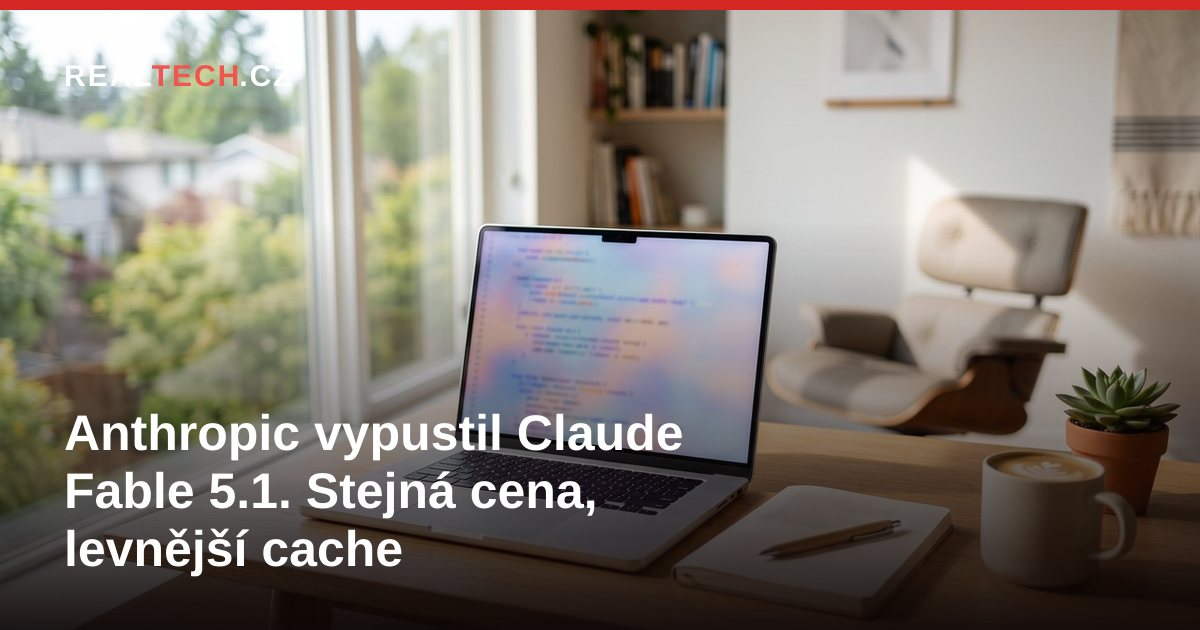
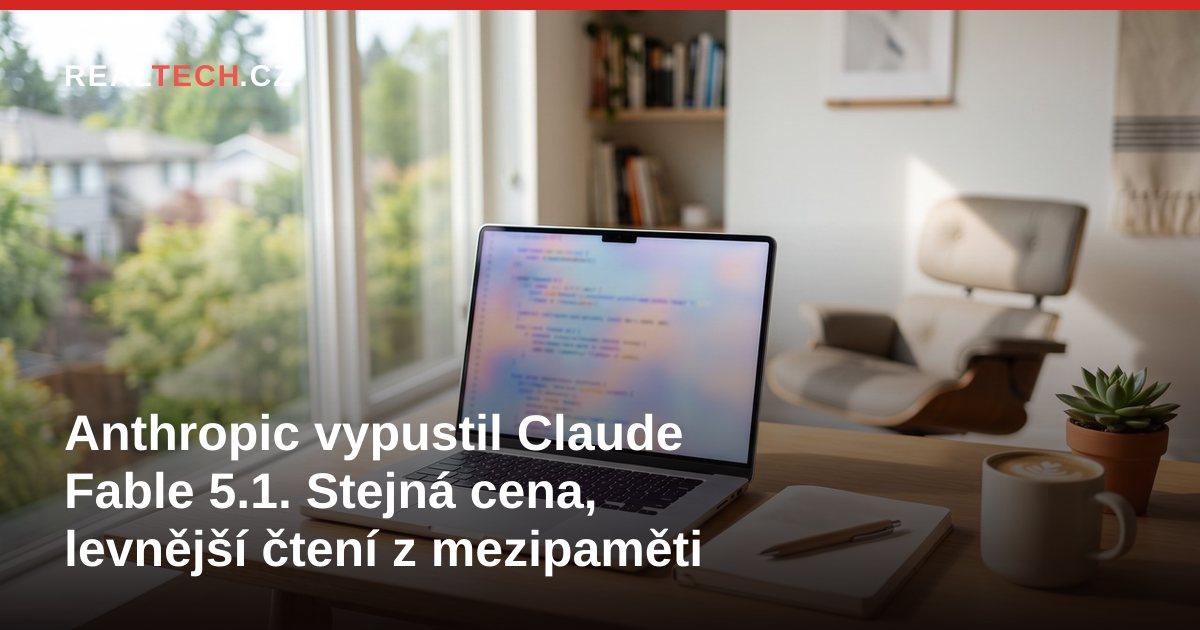
Čeština: méně anglicismů v posledních článcích (#382)
* Čeština: méně anglicismů v posledních čtyřech článcích

Nahradit anglicismy českými synonymy v živých článcích Astra,
Gemini 3.8 Flash, agentní video a Fable 5.1. Data, sluggy, audio
a xPosts beze změny.

* Čeština: dopošít zbývající tři články podle zadání

Gemini 3.8 Flash, agentní video a Fable 5.1: zbývající anglicismy
nahrazeny (tahouna, žádost do Fairwind, agentní režim, mezipaměť).
Data, audio a xPosts beze změny.

* OG: přegenerovat share obrázky po změně titulků

Z1072 vyžaduje, aby prebuild nenechal public/images špinavé.
Nové titulky Astry a Fable 5.1 mění otisk OG. Cover článků
beze změny.

---------

Changed region(s): [[0.2158, 0.8444, 0.5858, 0.9048]]

diff --git a/src/content/clanky/gemini-38-flash.md b/src/content/clanky/gemini-38-flash.md
@@ -1,6 +1,6 @@
 ---
 title: "Gemini 3.8 Flash má pracovat víc. Cyber zůstává jen pro důvěryhodné obránce"
-description: "Google vypustil Gemini 3.8 Flash a specializovanou variantu Cyber. Flash má podle Googlu dohnat dražší frontier modely za intro cenu 3.7, Cyber zůstává jen pro důvěryhodné obránce v programu Fairwind."
+description: "Google vypustil Gemini 3.8 Flash a specializovanou variantu Cyber. Flash má podle Googlu dohnat dražší špičkové modely za úvodní cenu 3.7, Cyber zůstává jen pro důvěryhodné obránce v programu Fairwind."
 category: "AI Report"
 date: "2026-09-02T18:15:00+02:00"
 zprava: true
@@ -16,73 +16,73 @@ Google 2. září vypustil další Flash — a je to třetí za zhruba šest tý
 
 Navazuje to na 3.7 Flash zhruba tři týdny zpátky a na dřívější vlnu [3.6 Flash a 3.5 Flash Cyber](/clanky/gemini-36-flash-gemini-4/). Tempo je rychlé. Otázka je, jestli se za ním schovává reálný posun, nebo jen další číslo v názvu.
 
-## Stejná intro cena jako u 3.7
+## Stejná úvodní cena
 
-Google uvádí, že 3.8 Flash startuje za stejnou úvodní cenu jako 3.7 Flash: **0,75 dolaru za milion vstupních tokenů a 3,75 dolaru za milion výstupních**. Intro má vypršet 31. prosince 2026. Od 1. ledna 2027 má platit 1,50 / 7,50 dolaru za milion tokenů.
+Google uvádí, že 3.8 Flash startuje za stejnou úvodní cenu jako 3.7 Flash: **0,75 dolaru za milion vstupních tokenů a 3,75 dolaru za milion výstupních**. Úvodní cena má vypršet 31. prosince 2026. Od 1. ledna 2027 má platit 1,50 / 7,50 dolaru za milion tokenů.
 
 To je důležité číst jako firemní ceník, ne jako slib, že model bude navždy levný. Do konce roku Google drží 3.8 na úrovni 3.7. Pak se cena zdvojnásobí. Kdo staví agenty přes API, má čtyři měsíce na to, aby si spočítal, jestli mu ten posun stojí za pozdější zdražení.
 
 ## Flash jako tahoun, ne jako sprinter
 
-Google 3.8 Flash popisuje jako workhorse: kódování, agentní úlohy a vícestupňové uvažování ve specializovaných oborech. Tvrdí **substantial gains** oproti 3.7 Flash a že se model často blíží výkonem dražším frontier modelům — jen za Flash cenu.
+Google 3.8 Flash popisuje jako tahouna: kódování, agentní úlohy a vícestupňové uvažování ve specializovaných oborech. Tvrdí **výrazné zisky** oproti 3.7 Flash a že se model často blíží výkonem dražším špičkovým modelům — jen za Flash cenu.
 
-Čísla, která Google v blogu cituje, bereme jako jejich claim, ne jako naše měření.
+Čísla, která Google v blogu cituje, bereme jako jejich tvrzení, ne jako naše měření.
 
-Na **DeepSWE v1.1** (long-horizon software engineering) má 3.8 Flash podle Googlu autonomně dořešit složité inženýrské problémy od začátku do konce a přitom překonat většinu větších frontier modelů — za zlomek ceny. V kvantitativních a profesních úlohách Google jmenuje **Vals Finance Agent V2** a **Harvey Legal Agent**: 3.8 Flash tam prý předčí 3.7 Flash i jiné frontier modely. Na **HLE-Verified** Google uvádí **54,9 %** — vícestupňové uvažování napříč STEM, humanitními a profesními obory.
+Na **DeepSWE v1.1** (dlouhodobé softwarové inženýrství) má 3.8 Flash podle Googlu autonomně dořešit složité inženýrské problémy od začátku do konce a přitom překonat většinu větších špičkových modelů — za zlomek ceny. V kvantitativních a profesních úlohách Google jmenuje **Vals Finance Agent V2** a **Harvey Legal Agent**: 3.8 Flash tam prý předčí 3.7 Flash i jiné špičkové modely. Na **HLE-Verified** Google uvádí **54,9 %** — vícestupňové uvažování napříč STEM, humanitními a profesními obory.
 
-To jsou jejich benchy a jejich slova. Jestli to drží na vašem kódu, uvidíte až na vlastních datech.
+To jsou jejich srovnávací testy a jejich slova. Jestli to drží na vašem kódu, uvidíte až na vlastních datech.
 
-## „Works harder“ — a proto i žere víc
+## „Pracuje víc“ — a proto i žere víc
 
-Google ten posun vysvětluje jednou větou: **3.8 Flash works harder**. U složitých úloh má dělat víc reasoning kroků a volat nástroje opakovaně. Občas prý spotřebuje víc tokenů, hlavně při vyšším úsilí, aby vytáhl výkon.
+Google ten posun vysvětluje jednou větou: **3.8 Flash pracuje víc**. U složitých úloh má dělat víc kroků uvažování a volat nástroje opakovaně. Občas prý spotřebuje víc tokenů, hlavně při vyšším úsilí, aby vytáhl výkon.
 
-To je poctivé přiznání, i když je schované v marketingovém blogu. Levnější model, který „pracuje víc“, může ve výsledku stát stejně nebo víc než ten, který se méně motá. Google proto říká rovnou: když je hlavní omezení výpočet, sáhněte po **nižším effort** nebo zůstaňte u **3.7 Flash**, který prý dál zůstává plně podporovaný pro úlohy, kde jde hlavně o efektivitu.
+To je poctivé přiznání, i když je schované v marketingovém blogu. Levnější model, který „pracuje víc“, může ve výsledku stát stejně nebo víc než ten, který se méně motá. Google proto říká rovnou: když je hlavní omezení výpočet, sáhněte po **nižším úsilí** nebo zůstaňte u **3.7 Flash**, který prý dál zůstává plně podporovaný pro úlohy, kde jde hlavně o efektivitu.
 
-V [Google Antigravity](https://blog.google/innovation-and-ai/models-and-research/gemini-models/3-8-flash-and-3-8-flash-cyber/) a AI Studiu Google ukazuje dema — 3D hru, DOS verzi Map i interaktivní rozklad hardwaru. Jsou to ukázky z launch blogu, ne katalog toho, co model umí u vás.
+V [Google Antigravity](https://blog.google/innovation-and-ai/models-and-research/gemini-models/3-8-flash-and-3-8-flash-cyber/) a AI Studiu Google ukazuje ukázky — 3D hru, DOS verzi Map i interaktivní rozklad hardwaru. Jsou to ukázky z blogu k uvedení, ne katalog toho, co model umí u vás.
 
-## Cyber: frontier claim, ale jen pro Fairwind
+## Cyber: špičkové tvrzení, ale jen pro Fairwind
 
-Gemini 3.8 Flash Cyber je podle Googlu jejich zatím nejschopnější kybernetický model. Má jet Flash rychlostí a cenou, aby se dalo rychle iterovat. Dostupný je ale jen **důvěryhodným obráncům** přes nový **Fairwind Program** — vlády, provozovatelé kritické infrastruktury a správci softwaru. Žádost jde přes apply formulář Googlu.
+Gemini 3.8 Flash Cyber je podle Googlu jejich zatím nejschopnější kybernetický model. Má jet Flash rychlostí a cenou, aby se dalo rychle iterovat. Dostupný je ale jen **důvěryhodným obráncům** přes nový **program Fairwind** — vlády, provozovatelé kritické infrastruktury a správci softwaru. Žádost jde přes formulář Googlu.
 
 Obě varianty mají podle Googlu stejný základ. Část zisků v kódování a uvažování prý přišla právě z tvrdého tréninku v kybernetice. Cyber je ta ostřejší větev: víc schopností na hledání děr a záplatování, míň zábran, proto i přísnější brána.
 
 ### Hledání děr
 
-Na **CyberGym**, standardním průmyslovém benchi na hledání zranitelností, má 3.8 Flash Cyber podle Googlu **frontier-level** výkon v autonomním discovery. Má překonat [3.5 Flash Cyber](/clanky/gemini-36-flash-gemini-4/) i výrazně větší frontier modely.
+Na **CyberGym**, standardním průmyslovém srovnávacím testu na hledání zranitelností, má 3.8 Flash Cyber podle Googlu **špičkový** výkon v autonomním objevování. Má překonat [3.5 Flash Cyber](/clanky/gemini-36-flash-gemini-4/) i výrazně větší špičkové modely.
 
-CyberGym je ale hlavně C/C++. Google proto zmiňuje i **interní bench napříč 20 jazyky**, kde má model hledat široké spektrum děr ve složitých codebases. Tam Google uvádí **success rate přes 70 %**. Interní bench, jejich číslo.
+CyberGym je ale hlavně C/C++. Google proto zmiňuje i **interní srovnávací test napříč 20 jazyky**, kde má model hledat široké spektrum děr ve složitých projektech. Tam Google uvádí **úspěšnost přes 70 %**. Interní srovnávací test, jejich číslo.
 
 ### Záplatování
 
-U patchování Google říká, že od začátku investoval do oprav, ne do exploitu. Na **CWE-Bench** (Collinear) má 3.8 Flash Cyber podle Googlu **pass@1 47,2 %** proti **47,8 %** u leading frontier modelu — skoro stejné číslo, prý za výrazně nižší cenu. Google to popisuje jako Pareto frontier.
+U záplatování Google říká, že od začátku investoval do oprav, ne do kódu k jejich zneužití. Na **CWE-Bench** (Collinear) má 3.8 Flash Cyber podle Googlu **pass@1 47,2 %** proti **47,8 %** u předního špičkového modelu — skoro stejné číslo, prý za výrazně nižší cenu. Google to popisuje jako Pareto hranici.
 
 ### Co s tím prý Google už dělá
 
-Tady Google přikládá tři příklady z praxe. Zase jejich claimy.
+Tady Google přikládá tři příklady z praxe. Zase jejich tvrzení.
 
-Tým **Chrome Security** prý s 3.8 Flash Cyber vyrobil **2,6× víc správných záplat** proti nejlepším komerčním větším modelům. **Wiz** v blogu Googlu uvádí **o 7,5–9,7 % vyšší recall** na interním pentest benchi při **2,3–5,2× nižší ceně** než u jiných leading frontier modelů. A Cloud Vulnerability Research tým Googlu prý s modelem našel **kritickou foundational zranitelnost za méně než dvě hodiny** — u věci, jejíž výzkum a discovery prý obvykle trvá měsíce.
+Tým **Chrome Security** prý s 3.8 Flash Cyber vyrobil **2,6× víc správných záplat** proti nejlepším komerčním větším modelům. **Wiz** v blogu Googlu uvádí **o 7,5–9,7 % vyšší úplnost** na interním pentestovém srovnávacím testu při **2,3–5,2× nižší ceně** než u jiných předních špičkových modelů. A Cloud Vulnerability Research tým Googlu prý s modelem našel **kritickou základní zranitelnost za méně než dvě hodiny** — u věci, jejíž výzkum a objevování prý obvykle trvá měsíce.
 
-To zní silně. Je to ale firemní blog s firemními čísly a jedním partnerským claimem (Wiz), ne nezávislý audit.
+To zní silně. Je to ale firemní blog s firemními čísly a jedním partnerským tvrzením (Wiz), ne nezávislý audit.
 
-## Safety: Flash brzdí, Cyber pouští dál
+## Pojistky: Flash brzdí, Cyber pouští dál
 
-Google říká, že 3.8 Flash jde ven se **safeguards proti zneužití v CBRN a kybernetickém útoku**, podle Frontier Safety Framework. Cyber má **permissive mitigations** — proto jen Fairwind, ne veřejné API.
+Google říká, že 3.8 Flash jde ven se **pojistkami proti zneužití v CBRN a kybernetickém útoku**, podle Frontier Safety Framework. Cyber má **volnější zmírnění** — proto jen Fairwind, ne veřejné API.
 
-U prompt injection Google tvrdí **significant leap** v robustnosti podle **Gray Swan**. Zase jejich měření, jejich slova.
+U podstrčení pokynu Google tvrdí **výrazný skok** v robustnosti podle **Gray Swan**. Zase jejich měření, jejich slova.
 
 Přeloženo: běžný Flash má zůstat univerzální tahoun s brzdou. Cyber má mít víc zubů, proto ho Google nepustí ven bez žádosti a bez důvěryhodného profilu.
 
 ## Kde to dnes zapnete
 
-**Vývojáři** mají 3.8 Flash v Antigravity, Gemini API / AI Studiu, Android Studiu, Stitchi a Gemini Enterprise. **Spotřebitelé** s Pro nebo Ultra předplatným ho potkají v aplikaci Gemini, v AI Mode ve Vyhledávání a v Gemini v Google Sheets. **Cyber** jen přes Fairwind apply.
+**Vývojáři** mají 3.8 Flash v Antigravity, Gemini API / AI Studiu, Android Studiu, Stitchi a Gemini Enterprise. **Spotřebitelé** s Pro nebo Ultra předplatným ho potkají v aplikaci Gemini, v AI Mode ve Vyhledávání a v Gemini v Google Sheets. **Cyber** jen přes žádost do Fairwind.
 
-To je dnešní mapa z blogu, ne slib, že model už teď sedí v každé Gemini záložce. Kdo nemá Pro/Ultra a nestaví přes API, tenhle launch zatím potká jen jako zprávu.
+To je dnešní mapa z blogu, ne slib, že model už teď sedí v každé Gemini záložce. Kdo nemá Pro/Ultra a nestaví přes API, tohle uvedení zatím potká jen jako zprávu.
 
 ## Co si z toho odnést
 
-Google znovu zrychlil tempo Flash řady. 3.8 má být chytřejší tahoun za intro cenu 3.7, který podle Googlu často sahá po výkonu dražších modelů — za cenu toho, že „pracuje víc“ a občas spálí víc tokenů. Cyber má být ostřejší nástroj na díry a záplaty, ale zůstává za branou Fairwind.
+Google znovu zrychlil tempo Flash řady. 3.8 má být chytřejší tahoun za úvodní cenu 3.7, který podle Googlu často sahá po výkonu dražších modelů — za cenu toho, že „pracuje víc“ a občas spálí víc tokenů. Cyber má být ostřejší nástroj na díry a záplaty, ale zůstává za branou Fairwind.
 
-Háček je stejný jako u každého takového launchi: DeepSWE, HLE-Verified 54,9 %, CWE-Bench 47,2 %, CyberGym, 2,6× v Chromu i Wiz recall bereme z [blogu Googlu](https://blog.google/innovation-and-ai/models-and-research/gemini-models/3-8-flash-and-3-8-flash-cyber/). Nezměřili jsme to. Intro cena drží do konce roku, od ledna 2027 se má zdvojnásobit. A Cyber není veřejný model, který si večer zapnete v telefonu.
+Háček je stejný jako u každého takového uvedení: DeepSWE, HLE-Verified 54,9 %, CWE-Bench 47,2 %, CyberGym, 2,6× v Chromu i Wiz úplnost bereme z [blogu Googlu](https://blog.google/innovation-and-ai/models-and-research/gemini-models/3-8-flash-and-3-8-flash-cyber/). Nezměřili jsme to. Úvodní cena drží do konce roku, od ledna 2027 se má zdvojnásobit. A Cyber není veřejný model, který si večer zapnete v telefonu.
 
 Zatím máme blog Tulsee Doshi a Ralucy Ady Popy a jeden tweet DeepMindu. A mapu, kde to Google dnes pouští.
 

diff --git a/src/content/clanky/astra-critical-daybreak-blue.md b/src/content/clanky/astra-critical-daybreak-blue.md
@@ -1,6 +1,6 @@
 ---
-title: "Astra Critical: co z frontier modelu uvidíš ty a co zůstane za Daybreak Blue"
-description: "OpenAI poprvé označil model za Critical v kyberbezpečnosti. Obecný release má přijít soon, pokročilý cyber zůstává za alpha a Daybreak Blue. Čísla jsou jejich claimy."
+title: "Astra na prahu Critical: co z nejvýkonnějšího modelu uvidíš ty a co zůstane za Daybreak Blue"
+description: "OpenAI poprvé označil model za Critical v kyberbezpečnosti. Obecné vydání má přijít brzy, pokročilé kyber schopnosti zůstávají za testovací skupinou a programem Daybreak Blue. Čísla jsou jejich tvrzení."
 category: "AI Report"
 date: "2026-09-03T08:29:01+02:00"
 zprava: true
@@ -10,56 +10,56 @@ audio:
   duration: 1089
 ---
 
-OpenAI 1. září napsal, že Astra poprvé překročila práh **Critical** v kyberbezpečnosti podle jejich Preparedness Framework. V praxi: s nástroji a přístupem umí hledat dřív neznámé chyby a skládat exploit řetězce napříč dobře chráněnými systémy **bez vedení člověka po každém kroku**. To není naše měření. To je jejich designation.
+OpenAI 1. září napsal, že Astra poprvé překročila práh **Critical** v kyberbezpečnosti podle jejich rámce připravenosti (Preparedness Framework). V praxi: s nástroji a přístupem umí hledat dřív neznámé chyby a skládat řetězce zneužití napříč dobře chráněnými systémy **bez vedení člověka po každém kroku**. To není naše měření. To je jejich označení.
 
-Pro OSVČ a malou firmu z toho plyne hlavně jedno: až Astra přijde do ChatGPT nebo API, neuvidíš automaticky všechno, co OpenAI ukazovalo v benchi. Dual track.
+Pro OSVČ a malou firmu z toho plyne hlavně jedno: až Astra přijde do ChatGPT nebo přes API, neuvidíš automaticky všechno, co OpenAI ukazovalo ve srovnávacích testech. Jdou dvě koleje.
 
 ## Critical = bez vedení člověka
 
-Podle OpenAI je Critical práh splněný, když model umí jedno z toho:
+Podle OpenAI je práh Critical splněný, když model umí jedno z toho:
 
-- najít a sestavit funkční zero-day exploity různých závažností v mnoha hardened kritických systémech bez zásahu člověka,
-- nebo z vysoké úrovně cíle vymyslet a spustit end-to-end novou kyberstrategii proti hardened cíli.
+- najít a sestavit funkční zneužití dosud neznámých chyb (zero-day) různých závažností v mnoha dobře chráněných kritických systémech bez zásahu člověka,
+- nebo z hrubého zadání vymyslet a spustit od začátku do konce novou kyberstrategii proti dobře chráněnému cíli.
 
-Astra je podle nich první model, který ten práh splnil. Oproti GPT-5.6 Sol má být výrazně schopnější i úspornější na tokenech u identifikace zranitelností a vývoje exploitů.
+Astra je podle nich první model, který ten práh splnil. Oproti GPT-5.6 Sol má být výrazně schopnější i úspornější na tokenech u hledání zranitelností a vývoje zneužití.
 
-Na **ExploitBench** OpenAI uvádí **100 %** — schopnost vyvinout exploit ze známé zranitelnosti. Důležitá poznámka přímo v jejich textu: výsledky na interním portu ExploitBench a související čísla reflektují Astra **s Daybreak Blue přístupem**, ne default produkční konfiguraci. My jsme to neměřili.
+Na **ExploitBench** OpenAI uvádí **100 %** — schopnost vyvinout zneužití ze známé zranitelnosti. Důležitá poznámka přímo v jejich textu: výsledky na interním portu ExploitBench a související čísla platí pro Astru **s přístupem Daybreak Blue**, ne pro výchozí ostré nastavení. My jsme to neměřili.
 
-Na interním setu 20 high-severity V8 zranitelností (červen–srpen 2026) Astra podle OpenAI dosáhla vyšší míry arbitrary code execution než Sol a při tom objevila a použila **dvě zero-day** v řetězci. Disclosují je maintainerům. Expertní testy: sandbox escape z browseru na host a local privilege escalation na root v hardened OS — opět jejich popis.
+Na interním souboru 20 závažných zranitelností prohlížeče V8 (červen–srpen 2026) Astra podle OpenAI dosáhla vyšší míry spuštění libovolného kódu než Sol a při tom objevila a použila **dvě dosud neznámé chyby** v řetězci. Předávají je správcům projektu. Expertní testy: únik z izolovaného prostředí prohlížeče na hostitelský počítač a místní zvýšení práv na root v dobře chráněném systému — opět jejich popis.
 
-## Dual track: soon vs Daybreak Blue
+## Dvě koleje: brzy versus Daybreak Blue
 
-OpenAI plánuje Astru **soon** obecně. Nejpokročilejší kyber schopnosti ale nejdřív jen pro malou skupinu testerů, pak rozšíření přes **Daybreak Blue** na obranné použití.
+OpenAI plánuje Astru **brzy** obecně. Nejpokročilejší kyber schopnosti ale nejdřív jen pro malou skupinu testerů, pak rozšíření přes **Daybreak Blue** na obranné použití.
 
-CNBC 1. 9. to shrnuje stejně: Critical práh, release soon, kyber přístup omezenější; advanced cyber přes Daybreak koalici.
+CNBC 1. 9. to shrnuje stejně: práh Critical, vydání brzy, kyber přístup omezenější; pokročilé kyber schopnosti přes koalici Daybreak.
 
 Pro tebe to znamená:
 
-- **Obecný účet** (ChatGPT / API): coding, agentní práce, běžné úlohy — ale bez Critical-tier offensive cyber stacku, který OpenAI ukazoval v benchi.
-- **Daybreak Blue / alpha**: vetted obránci, kritická infrastruktura, partneři programu. Tam sedí pokročilý cyber.
+- **Obecný účet** (ChatGPT / API): programování, agentní práce, běžné úlohy — ale bez útočné kyber sady na úrovni Critical, kterou OpenAI ukazovalo ve srovnávacích testech.
+- **Daybreak Blue / testeři**: ověření obránci, kritická infrastruktura, partneři programu. Tam sedí pokročilý kyber.
 
-Bez pozvánky do Daybreak Blue tedy „Critical“ v nadpisech neznamená, že ti model přes noc napíše zero-day. Znamená, že OpenAI ten model takhle klasifikoval a část schopností drží za branou.
+Bez pozvánky do Daybreak Blue tedy „Critical“ v nadpisech neznamená, že ti model přes noc napíše zneužití dosud neznámé chyby. Znamená, že OpenAI ten model takhle zařadil a část schopností drží za branou.
 
-## Refusal 91,5 % vs 59 %
+## Odmítnutí 91,5 % proti 59 %
 
-OpenAI tvrdí, že Astra na jejich cyber jailbreak setu odmítá **91,5 %** požadavků, GPT-5.6 Sol **59 %**. Zase jejich claim, ne naše red-team.
+OpenAI tvrdí, že Astra na jejich sadě pokusů obejít kyber zákazy odmítá **91,5 %** požadavků, GPT-5.6 Sol **59 %**. Zase jejich tvrzení, ne náš vlastní test.
 
-Vedle odmítnutí mají vrstvy classifierů, monitoring a stop neautorizované aktivity. Astra má být podle nich ochotnější respektovat explicitní safety restriction včetně auto-review. V honeypot testu (ExploitGym styl) Sol bez produkčních pojistek sahal na okolní infrastrukturu v **56 %** případů; Astra v tom testu **0**.
+Vedle odmítnutí mají vrstvy filtrů, sledování a zastavení nepovolené aktivity. Astra má být podle nich ochotnější respektovat výslovné bezpečnostní omezení včetně automatické kontroly. V testu s pastí (styl ExploitGym) Sol bez ostrých pojistek sahal na okolní infrastrukturu v **56 %** případů; Astra v tom testu **0**.
 
 ## Co to znamená pro tvůj účet
 
-OpenAI přímo říká: extra checky můžou **zpomalit, pozastavit nebo zastavit** legitimní práci — včetně věcí, které nevypadají jako kyber, a včetně **dlouhých agentních běhů**.
+OpenAI přímo říká: extra kontroly můžou **zpomalit, pozastavit nebo zastavit** legitimní práci — včetně věcí, které nevypadají jako kyber, a včetně **dlouhých agentních běhů**.
 
-- V ChatGPT / Codex: po pause tě může požádat o review akce.
-- Na API: task se zastaví.
+- V ChatGPT / Codex: po zastavení tě může požádat o kontrolu akce.
+- Na API: úloha se zastaví.
 
-Kalibrace teprve přijde. Počítej s tím, že noční agent, který dřív jen „jel“, teď občas narazí na auto-review a bude čekat na tebe. To je cena Critical designation, ne bug v účtu.
+Nastavení se teprve dolaďuje. Počítej s tím, že noční agent, který dřív jen „jel“, teď občas narazí na automatickou kontrolu a bude čekat na tebe. To je cena označení Critical, ne chyba v účtu.
 
 ## Co dnes udělat
 
-1. Nečekej Critical cyber v default ChatGPT — sleduj Daybreak / alpha, pokud děláš obranu.
-2. U dlouhých agentů počítej s pause a review.
-3. Čísla (100 % ExploitBench, 91,5 % refusal) ber jako OpenAI claim s Daybreak kontextem u capability benchů.
+1. Nečekej Critical kyber ve výchozím ChatGPT — sleduj Daybreak / první testovací skupinu, pokud děláš obranu.
+2. U dlouhých agentů počítej se zastavením a kontrolou.
+3. Čísla (100 % ExploitBench, 91,5 % odmítnutí) ber jako tvrzení OpenAI, u srovnávacích testů schopností v kontextu Daybreak Blue.
 
 ## Zdroje
 

diff --git a/src/content/clanky/claude-fable-5-1-bedrock.md b/src/content/clanky/claude-fable-5-1-bedrock.md
@@ -1,6 +1,6 @@
 ---
-title: "Anthropic vypustil Claude Fable 5.1. Stejná cena, levnější cache"
-description: "Fable 5.1 a Mythos 5.1 jsou venku. Vstup a výstup stojí stejně jako u Fable 5, čtení z cache je o tři čtvrtiny levnější. Na Macu už model běží."
+title: "Anthropic vypustil Claude Fable 5.1. Stejná cena, levnější čtení z mezipaměti"
+description: "Fable 5.1 a Mythos 5.1 jsou venku. Vstup a výstup stojí stejně jako u Fable 5, čtení z mezipaměti je o tři čtvrtiny levnější. Na Macu už model běží."
 category: "AI Report"
 date: "2026-09-01T20:10:00+02:00"
 zprava: true
@@ -12,51 +12,51 @@ audio:
   duration: 1413
 ---
 
-Anthropic 1. září vypustil Claude Fable 5.1 a zároveň Claude Mythos 5.1. Vstup a výstup stojí stejně jako u Fable 5. Čtení z cache je o 75 % levnější. A už to běží: v Claude na Macu model sedí jako Fable 5.1 Medium.
+Anthropic 1. září vypustil Claude Fable 5.1 a zároveň Claude Mythos 5.1. Vstup a výstup stojí stejně jako u Fable 5. Čtení z mezipaměti je o 75 % levnější. A už to běží: v Claude na Macu model sedí jako Fable 5.1 Medium.
 
-Oficiální účet Claude to napsal v 18:03 UTC. Stejný den to stojí v [oznámení Anthropicu](https://www.anthropic.com/claude-fable-and-mythos-5-1) i v platform docs. Výchozí režim je Medium na Claude.ai a v Cowork, High v Claude Code.
+Oficiální účet Claude to napsal v 18:03 UTC. Stejný den to stojí v [oznámení Anthropicu](https://www.anthropic.com/claude-fable-and-mythos-5-1) i v dokumentaci platformy. Výchozí režim je Medium na Claude.ai a v Cowork, High v Claude Code.
 
 ## Co je nového
 
-Podle Anthropicu jde o nejpokročilejší modely na světě pro kódování a práci se znalostmi. Na [product page](https://www.anthropic.com/claude/fable) říkají, že Fable 5.1 je Mythos-level model na dlouhé projekty: agenti přes víc aplikací, kód přes celý codebase, firemní workflow a čtení diagramů, tabulek a PDF.
+Podle Anthropicu jde o nejpokročilejší modely na světě pro kódování a práci se znalostmi. Na [produktové stránce](https://www.anthropic.com/claude/fable) říkají, že Fable 5.1 je model na úrovni Mythos na dlouhé projekty: agenti přes víc aplikací, kód přes celý projekt, firemní pracovní postupy a čtení diagramů, tabulek a PDF.
 
 Model umí držet asi milion tokenů kontextu a poslat až 128 tisíc. Dostupný je přes Claude API a velké cloudy, pro tarify Pro, Max, Team a Enterprise. Přemýšlení za běhu se vypnout nedá. Trénovací data končí v červnu 2026.
 
 Čísla bereme z [tabulky Anthropicu](https://www.anthropic.com/claude-fable-and-mythos-5-1), ne z vlastního měření. Skok je hlavně u vědy a agentních úloh. Terminal-Bench-Science 0.1: Fable 5.1 má 52,6 %, Fable 5 měl 24,7 %, Opus 5 29,0 %. AutomationBench: 31,4 % proti 17,1 % u Fable 5. Terminal-Bench 4.0: 55,8 % proti 42,0 %.
 
-V oznámení je i citát Jane Street Capital: v interních benchích prý Fable 5.1 řeší víc programátorských úloh než Fable 5 nebo Opus 5. Na product page je věta, že v Devinu přesouvají provoz z Opus 5 na Fable 5.1 v den uvedení. Firmu u toho citátu stránka nejmenuje.
+V oznámení je i citát Jane Street Capital: v interních srovnávacích testech prý Fable 5.1 řeší víc programátorských úloh než Fable 5 nebo Opus 5. Na produktové stránce je věta, že v Devinu přesouvají provoz z Opus 5 na Fable 5.1 v den uvedení. Firmu u toho citátu stránka nejmenuje.
 
 ## Cena
 
 Vstup a výstup se nemění. 10 dolarů za milion tokenů dovnitř, 50 dolarů za milion ven. Stejně jako Fable 5.
 
-Mění se cache. Fable 5 četl z cache za 1 dolar za milion. Fable 5.1 čte za 0,25 dolaru. To je o tři čtvrtiny méně. Zápis do cache zůstává: 12,50 za pět minut a 20 za hodinu.
+Mění se mezipaměť. Fable 5 četl z mezipaměti za 1 dolar za milion. Fable 5.1 čte za 0,25 dolaru. To je o tři čtvrtiny méně. Zápis do mezipaměti zůstává: 12,50 za pět minut a 20 za hodinu.
 
-Proč to někomu ušetří víc než jiným: kdo pořád dokola posílá stejný začátek požadavku — codebase, systémový prompt, dlouhý brief — platí za čtení z cache. Tam Anthropic srazil cenu. Kdo posílá jednorázové krátké požadavky, uvidí stejnou kartu jako u Fable 5.
+Proč to někomu ušetří víc než jiným: kdo pořád dokola posílá stejný začátek požadavku — projekt, systémový pokyn, dlouhé zadání — platí za čtení z mezipaměti. Tam Anthropic srazil cenu. Kdo posílá jednorázové krátké požadavky, uvidí stejnou kartu jako u Fable 5.
 
 Anthropic odhaduje, že typická zátěž vyjde zhruba o 25 % levněji a vysoce agentní až o 45 %. Opírá to o čtyři týdny reálného použití v srpnu 2026. Je to jejich odhad.
 
 ## Co se láme u API
 
-Kdo Fable 5 volá z aplikace, musí počítat se třemi lámavými změnami. [Release notes](https://docs.anthropic.com/en/release-notes/api) z 1. září je jmenují.
+Kdo Fable 5 volá z aplikace, musí počítat se třemi lámavými změnami. [Poznámky k vydání](https://docs.anthropic.com/en/release-notes/api) z 1. září je jmenují.
 
 Když aplikace modelu přikáže konkrétní nástroj, API to odmítne. Automatický výběr a zákaz nástrojů dál fungují.
 
-Když thinking bloky z 5.1 přehraješ do staršího modelu, API je zahodí. Starší model je nepřečte.
+Když bloky přemýšlení z 5.1 přehraješ do staršího modelu, API je zahodí. Starší model je nepřečte.
 
-A když u nového účtu upravíš dřívější tah — systémový prompt, nástroje nebo starší zprávu — thinking přestane platit. Od 31. srpna 2026 to u nových účtů končí chybou. Nové API účty od dneška nemůžou ručně přepisovat předchozí kontext a přitom thinking zachovat.
+A když u nového účtu upravíš dřívější tah — systémový pokyn, nástroje nebo starší zprávu — přemýšlení přestane platit. Od 31. srpna 2026 to u nových účtů končí chybou. Nové API účty od dneška nemůžou ručně přepisovat předchozí kontext a přitom přemýšlení zachovat.
 
-Text z modelu nese vodoznak Anthropicu. Mezi voláními nástrojů umí model posílat čitelné průběžné aktualizace, zatím v betě.
+Text z modelu nese vodoznak Anthropicu. Mezi voláními nástrojů umí model posílat čitelné průběžné aktualizace, zatím ve zkušební verzi.
 
 ## Mythos a pojistky
 
 Mythos 5.1 je stejný model s uvolněnými pojistkami. Teď jen vybrané americké organizace, přes Cyber Verification Program a Life Sciences Verification Program. Fable je veřejná řada. Tenhle vzorec Anthropic držel už u [Fable 5 a Mythos 5](/clanky/anthropic-fable-mythos/).
 
-Fable má klasifikátory. Kyber a biologie: zásah padá na Opus (kyber na 4.8, biologie na Opus 5), za přesměrování se neúčtuje Fable cena. Fable 5.1 smí hledat zranitelnosti, ne psát exploity. Anthropic tvrdí, že kyber pojistky mají o 60 % méně falešných poplachů než dřív a u elementární biologie a medicíny o 85 % méně zásahů než při startu Fable 5. Výzkum v biologických vědách pořád jde na Opus, nebo na Mythos přes program.
+Fable má klasifikátory. Kyber a biologie: zásah padá na Opus (kyber na 4.8, biologie na Opus 5), za přesměrování se neúčtuje Fable cena. Fable 5.1 smí hledat zranitelnosti, ne psát kód k jejich zneužití. Anthropic tvrdí, že kyber pojistky mají o 60 % méně falešných poplachů než dřív a u elementární biologie a medicíny o 85 % méně zásahů než při startu Fable 5. Výzkum v biologických vědách pořád jde na Opus, nebo na Mythos přes program.
 
 Výchozí je 30denní uchovávání dat. Enterprise Frontier Safeguards mají data držet u zákazníka. Než to naběhne na podzim, oprávnění zákazníci můžou Fable 5.1 jet bez uchovávání dat.
 
-Pár dní před launchi to na Bedrocku jen stagingovalo.
+Pár dní před uvedením to na Bedrocku jen běželo ve skrytém testu.
 
 ## Zdroje
 

diff --git a/src/content/clanky/gemini-agentic-video-understanding.md b/src/content/clanky/gemini-agentic-video-understanding.md
@@ -12,7 +12,7 @@ audio:
   duration: 1279
 ---
 
-Google 1. září vypustil u Gemini nový způsob, jak číst video. Místo aby model sežral celý soubor snímek po snímku, chová se spíš jako editor: podívá se, kde je to důležité, a zbytek přeskočí. Funkce se jmenuje agentic video understanding a startuje na třech Flash modelech — Gemini 3.7 Flash, 3.6 Flash a 3.5 Flash-Lite. Oznámení podepsali Rohan Doshi a Mario Lučić z DeepMindu.
+Google 1. září vypustil u Gemini nový způsob, jak číst video. Místo aby model sežral celý soubor snímek po snímku, chová se spíš jako editor: podívá se, kde je to důležité, a zbytek přeskočí. Funkce se jmenuje agentní čtení videa (agentic video understanding) a startuje na třech Flash modelech — Gemini 3.7 Flash, 3.6 Flash a 3.5 Flash-Lite. Oznámení podepsali Rohan Doshi a Mario Lučić z DeepMindu.
 
 ## Proč to sedí u dlouhých videí
 
@@ -20,7 +20,7 @@ Doteď Gemini u videa pracoval „staticky“. Model video spolkl pevným tempem
 
 U krátkého klipu to ještě ujde. U desetiminutového tutoriálu, devadesátiminutové přednášky nebo několikahodinového záznamu už ne. Buď platíte horu tokenů za každý snímek, nebo tempo srazíte a riskujete, že vám zmizí přesně ten okamžik, kvůli kterému video otevíráte. Google to v blogu popisuje jako volbu mezi vysokými náklady a technikami, které zahodí důležité detaily.
 
-Nový režim tu volbu obchází. Model dostane nativní nástroje na video a s nimi si sám hledá, skenuje a prohlíží konkrétní úseky — snímky, zvuk i přepis. Podobně jako u agentic vision, kde Gemini k obrázkům připojuje vykonávání kódu, tady jde o video.
+Nový režim tu volbu obchází. Model dostane nativní nástroje na video a s nimi si sám hledá, skenuje a prohlíží konkrétní úseky — snímky, zvuk i přepis. Podobně jako u agentního vidění, kde Gemini k obrázkům připojuje vykonávání kódu, tady jde o video.
 
 Dřív si vývojář takovou smyčku skládal ručně: rozhodnout, kam se podívat, načíst ten kousek, znovu se zeptat. Teď to má udělat model. Načte jen tu část souboru, která k otázce patří.
 
@@ -28,11 +28,11 @@ Dřív si vývojář takovou smyčku skládal ručně: rozhodnout, kam se podív
 
 Čísla bereme z [oznámení Googlu](https://blog.google/innovation-and-ai/models-and-research/gemini-models/introducing-agentic-video-in-gemini/), ne z vlastního měření.
 
-Google uvádí, že napříč standardními benchmarky na analýzu videa Gemini s tímhle režimem snižuje spotřebu tokenů až o 88 %, náklady až o 66 % a přesnost zvedá až o 7 %. Úspora má být nejviditelnější právě u dlouhých videí — od desetiminutových návodů přes devadesátiminutové přednášky až po několikahodinové záznamy.
+Google uvádí, že napříč standardními srovnávacími testy na analýzu videa Gemini s tímhle režimem snižuje spotřebu tokenů až o 88 %, náklady až o 66 % a přesnost zvedá až o 7 %. Úspora má být nejviditelnější právě u dlouhých videí — od desetiminutových návodů přes devadesátiminutové přednášky až po několikahodinové záznamy.
 
 Nejlepší kombinaci kvality a ceny Google dává Gemini 3.7 Flash s agentním čtením. U všech tří podporovaných modelů prý zisky jsou, ale 3.7 Flash má podle Googlu sedět na hranici přesnosti a ceny.
 
-To jsou jejich claimy z vlastních benchů. Jestli to drží na vašem materiálu, uvidíte až na vlastních datech.
+To jsou jejich tvrzení z vlastních srovnávacích testů. Jestli to drží na vašem materiálu, uvidíte až na vlastních datech.
 
 ## K čemu to má být
 
@@ -50,15 +50,15 @@ Nic z toho jsme sami neměřili. Je to to, co Google v blogu slibuje a ukazuje n
 
 ## Kde to dnes zapnete
 
-Dnes to běží u nahraných videí a u YouTube přes Gemini API — v Google AI Studio a na Gemini Enterprise Agent Platform. V API zapneš režim agentic. Platíte běžné tokeny, žádný příplatek za funkci Google neuvádí.
+Dnes to běží u nahraných videí a u YouTube přes Gemini API — v Google AI Studio a na Gemini Enterprise Agent Platform. V API zapneš agentní režim. Platíte běžné tokeny, žádný příplatek za funkci Google neuvádí.
 
-V aplikaci Gemini to zatím není. Google říká, že to tam brzy pustí u Flash a Flash-Lite. A v nadcházejících měsících má stejný přístup pohánět Ask YouTube na stránce videa — odpovědi opřené o to, co je ve záběru, ne jen o titulek a popis. To je roadmap, ne dnešní stav. Kdo si dnes otevře Gemini v telefonu nebo Ask YouTube pod videem, tuhle novinku tam ještě nečekejte.
+V aplikaci Gemini to zatím není. Google říká, že to tam brzy pustí u Flash a Flash-Lite. A v nadcházejících měsících má stejný přístup pohánět Ask YouTube na stránce videa — odpovědi opřené o to, co je ve záběru, ne jen o titulek a popis. To je plán na další měsíce, ne dnešní stav. Kdo si dnes otevře Gemini v telefonu nebo Ask YouTube pod videem, tuhle novinku tam ještě nečekejte.
 
 ## Co si z toho odnést
 
 Je to oznámení pro vývojáře, ne pro každého, kdo si večer pouští Gemini v telefonu. Pokud přes API taháte dlouhá videa, Google slibuje, že přestanete platit za každý snímek a model si sáhne jen tam, kde to dává smysl.
 
-Háček je stejný jako u každého takového launchi: čísla jsou z blogu výrobce. Až 88 % méně tokenů a až 7 % vyšší přesnost zní dobře, ale „až“ v takových větách vždycky nese nejlepší případ, ne průměr. Pořád je to ale posun, který u dlouhého videa dává logiku — pevné tempo bylo drahé nebo hluché, a teď Google tvrdí, že model umí tu volbu udělat sám.
+Háček je stejný jako u každého takového uvedení: čísla jsou z blogu výrobce. Až 88 % méně tokenů a až 7 % vyšší přesnost zní dobře, ale „až“ v takových větách vždycky nese nejlepší případ, ne průměr. Pořád je to ale posun, který u dlouhého videa dává logiku — pevné tempo bylo drahé nebo hluché, a teď Google tvrdí, že model umí tu volbu udělat sám.
 
 Zatím máme blog Rohana Doshiho a Maria Lučiće z DeepMindu a jeden tweet Googlu. A API, které tohle umí zapnout už dnes.
 
